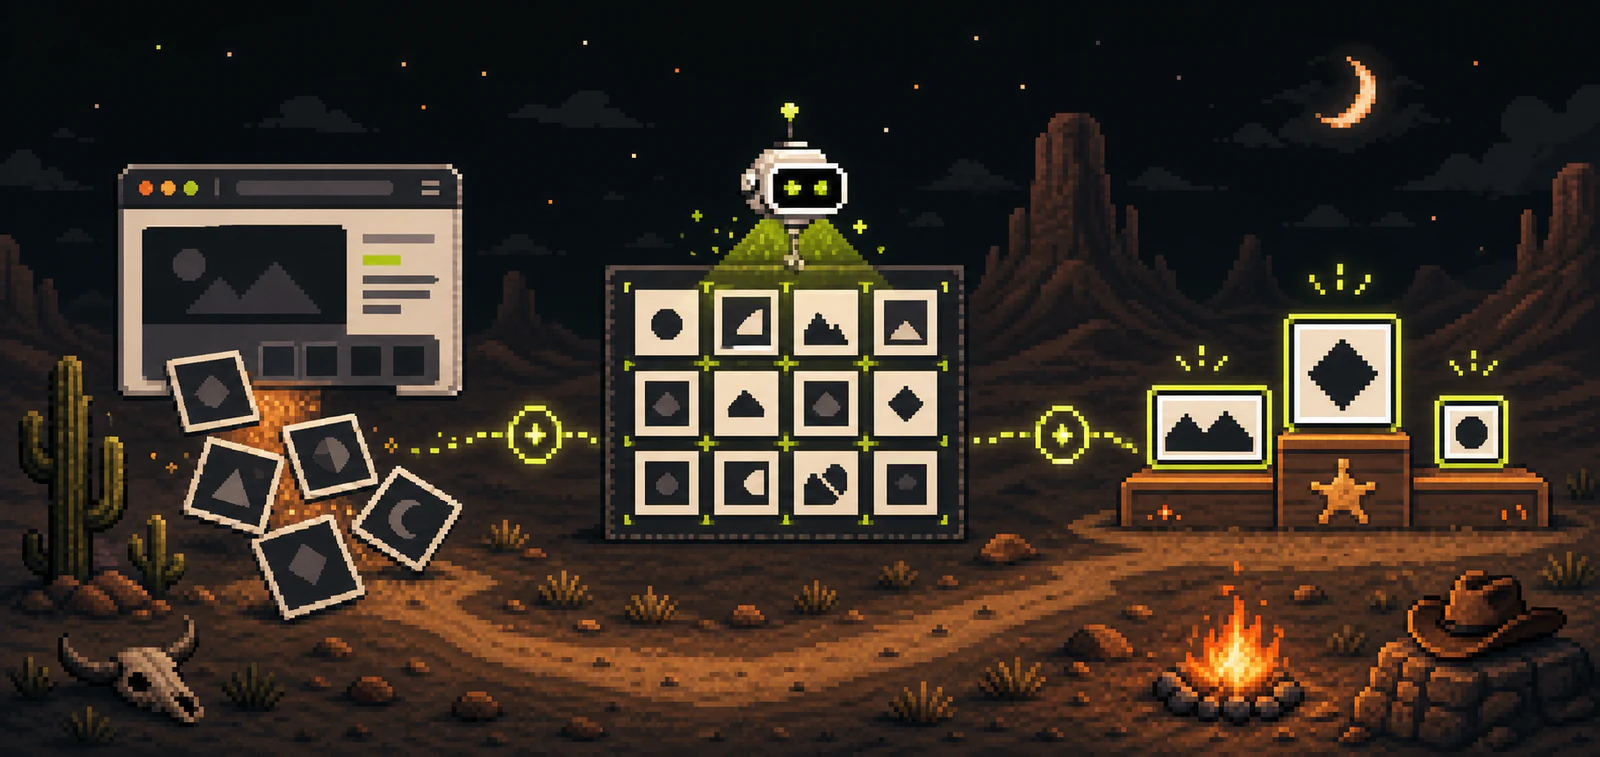
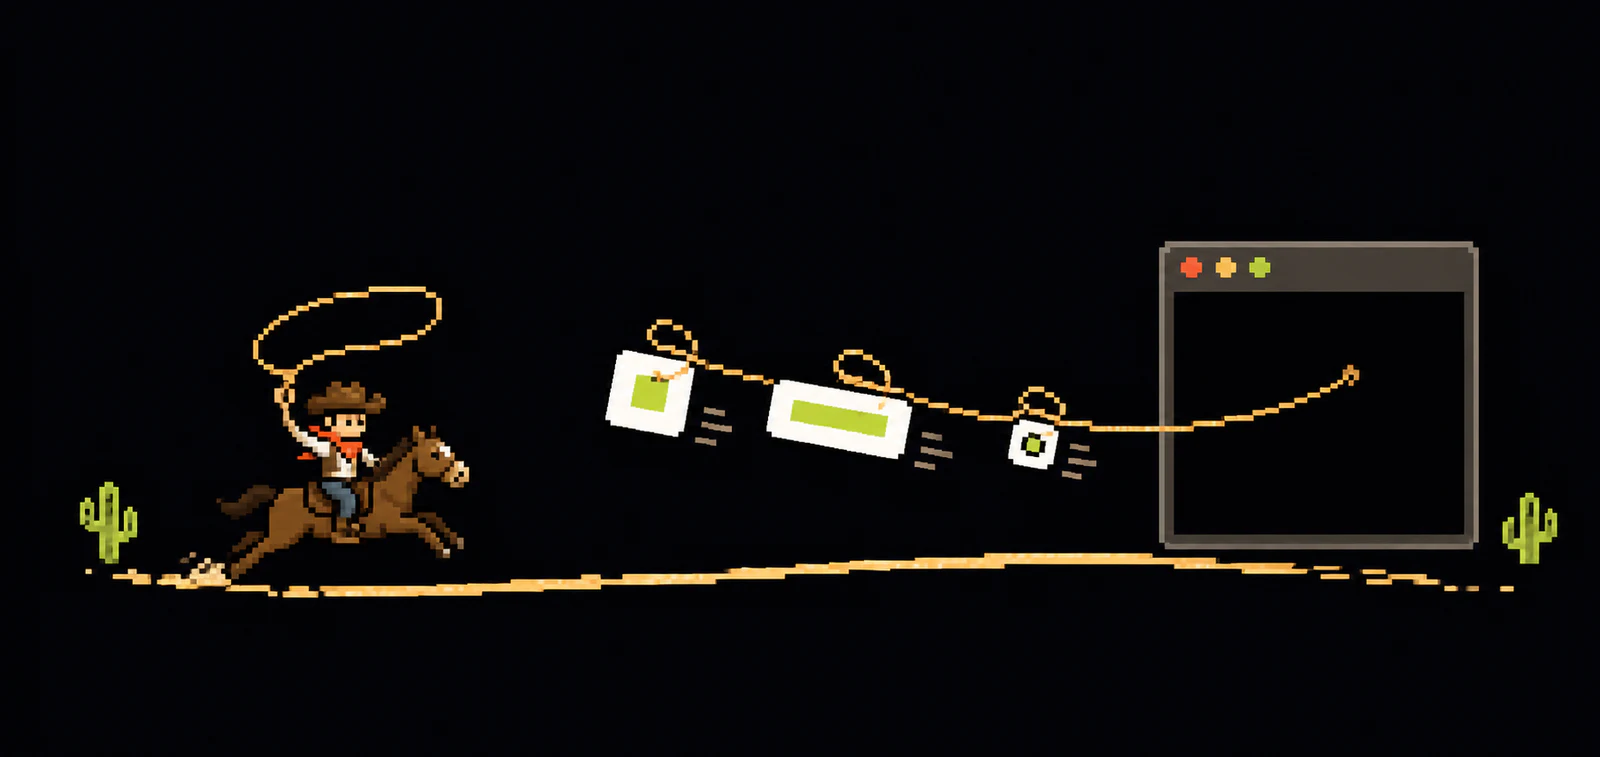
Simplify benchmark methodology presentation

diff --git a/public/index.html b/public/index.html
@@ -223,12 +223,12 @@
             <p class="pixel-kicker">How it works</p>
             <h2 id="how-title">AI-labeled.<br>Human-readable.</h2>
           </div>
-          <p class="how-lede">AI helped us measure what “the right logo” means across a frozen dataset. Your API request still runs on fast, deterministic rules—no model call, no invented artwork, and every score keeps its evidence.</p>
+          <p class="how-lede">AI helped label real candidate images while Logo Yoink was being optimized. Your API request still runs on fast, deterministic rules—no model call, no invented artwork, and every score keeps its evidence.</p>
         </div>
 
         <figure class="how-visual">
-          <img src="/assets/how-it-works/ai-ranking-trail.webp" width="1600" height="757" loading="lazy" alt="Pixel-art process showing website assets flowing into an AI-reviewed candidate grid and then into ranked icon, wordmark, and favicon choices">
-          <figcaption>Discovery → labeled evidence → role-specific winners</figcaption>
+          <img src="/assets/how-it-works/ai-ranking-trail.webp" width="1600" height="757" loading="lazy" alt="Pixel-art cowboy lassoing icon, wordmark, and favicon tiles from a browser window">
+          <figcaption>One URL in. The right logo out.</figcaption>
         </figure>
 
         <div class="how-process" aria-label="Logo Yoink extraction process">
@@ -248,24 +248,7 @@
             <p>Score icon, wordmark, and favicon separately using shape, source, resolution, page placement, company agreement, and negative context.</p>
           </article>
         </div>
-
-        <div class="training-story">
-          <div class="training-copy">
-            <p class="pixel-kicker">The optimization loop</p>
-            <h3>We turned logo hunting into a benchmark.</h3>
-            <p>A frozen 500-company cohort produced numbered candidate sheets. AI reviewers labeled identity, role, best-in-role, and light/dark usability; deterministic validation mapped every judgment back to a stable candidate ID without exposing rank scores or URLs to the reviewer.</p>
-            <p>We then tested one discovery or scoring change at a time. A change stayed only when it recovered more correct logos on development and validation without a material wrong-brand regression. That is how the current algorithm was tuned for high recall while protecting precision.</p>
-            <p class="training-note"><strong>Important:</strong> AI is used offline for labeling and evaluation—not in the live extraction path.</p>
-          </div>
-          <dl class="how-stats">
-            <div><dt>500</dt><dd>frozen company sites</dd></div>
-            <div><dt>2,277</dt><dd>adjudicated candidate labels</dd></div>
-            <div><dt>84.9%</dt><dd>sites with a correct icon or wordmark in the current-identity baseline</dd></div>
-            <div><dt>93.3%</dt><dd>wordmark rank recall when a correct candidate was discovered</dd></div>
-          </dl>
-        </div>
-
-        <p class="method-link">Want the receipts? Read the <a href="https://github.com/Hendrikc4/logo-yoink/blob/main/docs/current-system-logo-optimization-plan.md" target="_blank" rel="noreferrer">optimization plan</a> and <a href="https://github.com/Hendrikc4/logo-yoink/tree/main/schemas/visual-benchmark-v1" target="_blank" rel="noreferrer">benchmark schema</a>.</p>
+        <p class="how-footnote"><strong>AI stays off the live path.</strong> It was used offline to label examples and compare algorithm changes, helping tune the rules to recover more useful logos without rewarding obvious false positives.</p>
       </section>
     </main>
 

diff --git a/public/styles.css b/public/styles.css
@@ -168,17 +168,8 @@ pre { margin: 0; overflow: auto; padding: 24px 28px; color: #ebeee8; font: 12px/
 .how-process article > span { display: inline-grid; width: 42px; height: 42px; place-items: center; border: 1px solid var(--acid); color: var(--acid); font: 400 9px/1 var(--pixel); }
 .how-process h3 { margin: 26px 0 9px; font-size: 19px; letter-spacing: -.025em; }
 .how-process p { margin: 0; color: var(--muted); font-size: 13px; line-height: 1.72; }
-.training-story { display: grid; grid-template-columns: minmax(0, 1.25fr) minmax(330px, .75fr); gap: clamp(52px, 9vw, 120px); padding: clamp(76px, 9vw, 118px) 0 0; }
-.training-copy h3 { max-width: 660px; margin: 22px 0 22px; font-size: clamp(31px, 4.2vw, 52px); line-height: 1.05; letter-spacing: -.045em; text-wrap: balance; }
-.training-copy > p:not(.pixel-kicker) { max-width: 700px; margin: 0 0 17px; color: #b9bbbb; font-size: 15px; line-height: 1.75; }
-.training-copy .training-note { margin-top: 26px; padding: 17px 20px; border-left: 3px solid var(--acid); background: rgba(232,255,97,.045); color: #d7d9d2; }
-.training-note strong { color: var(--acid); }
-.how-stats { display: grid; align-self: start; align-content: start; grid-template-columns: 1fr 1fr; margin: 0; border: 1px solid var(--line); background: var(--line); gap: 1px; }
-.how-stats div { min-height: 168px; padding: 25px 22px; background: var(--surface); }
-.how-stats dt { color: var(--acid); font: 400 clamp(22px, 2.4vw, 34px)/1 var(--pixel); letter-spacing: -.06em; }
-.how-stats dd { margin: 17px 0 0; color: var(--muted); font-size: 12px; line-height: 1.55; }
-.method-link { margin: 47px 0 0; color: var(--muted); font: 12px/1.7 var(--mono); }
-.method-link a { color: var(--acid); text-underline-offset: 4px; }
+.how-footnote { margin: 0; padding: 25px 28px; border: 1px solid var(--line); border-top: 0; background: rgba(232,255,97,.035); color: #b9bbbb; font-size: 13px; line-height: 1.7; }
+.how-footnote strong { color: var(--acid); }
 
 .night-desert { position: relative; z-index: 0; width: 100%; height: clamp(300px, 36vw, 500px); margin-top: 0; background: url('/assets/game/desert-night-campfire.webp') center bottom / cover no-repeat; image-rendering: pixelated; }
 .night-desert::before { content: ''; position: absolute; inset: 0; background: linear-gradient(to bottom, var(--background) 0, transparent 30%); pointer-events: none; }
@@ -207,8 +198,6 @@ pre { margin: 0; overflow: auto; padding: 24px 28px; color: #ebeee8; font: 12px/
   .api-bottom { grid-column: 1; }
   .how-heading { grid-template-columns: 1fr; gap: 28px; }
   .how-lede { max-width: 720px; }
-  .training-story { grid-template-columns: 1fr; }
-  .how-stats { max-width: 720px; }
   .site-footer { grid-template-columns: 1fr auto; }
   .site-footer nav { order: 3; grid-column: 1 / -1; justify-content: center; padding-bottom: 25px; }
 }
@@ -264,10 +253,7 @@ pre { margin: 0; overflow: auto; padding: 24px 28px; color: #ebeee8; font: 12px/
   .how-process { grid-template-columns: 1fr; }
   .how-process article { min-height: 0; padding: 27px 24px 29px; }
   .how-process h3 { margin-top: 20px; }
-  .training-story { gap: 42px; padding-top: 72px; }
-  .training-copy h3 { font-size: 34px; }
-  .how-stats { grid-template-columns: 1fr; }
-  .how-stats div { min-height: 135px; }
+  .how-footnote { padding: 22px 20px; }
   .night-desert { height: 320px; margin-top: 36px; background-position: center bottom; }
   .site-footer { min-height: 210px; grid-template-columns: 1fr; gap: 22px; padding: 30px 22px; }
   .site-footer nav { order: 0; grid-column: auto; flex-wrap: wrap; justify-content: flex-start; gap: 18px 27px; padding: 0; }

diff --git a/README.md b/README.md
@@ -80,7 +80,7 @@ The response includes `selectedByRole`, grouped `assetFamilies`, every ranked `c
 ## How it works
 
 <p align="center">
-  <img src="public/assets/how-it-works/ai-ranking-trail.webp" alt="Pixel-art pipeline: website assets flow into an AI-reviewed candidate sheet and emerge as ranked icon, wordmark, and favicon choices">
+  <img src="public/assets/how-it-works/ai-ranking-trail.webp" alt="Pixel-art cowboy lassoing icon, wordmark, and favicon tiles from a browser window">
 </p>
 
 Logo Yoink is a deterministic discovery and ranking pipeline. AI helped build the benchmark used to improve it; AI is **not** called when you extract a logo.
